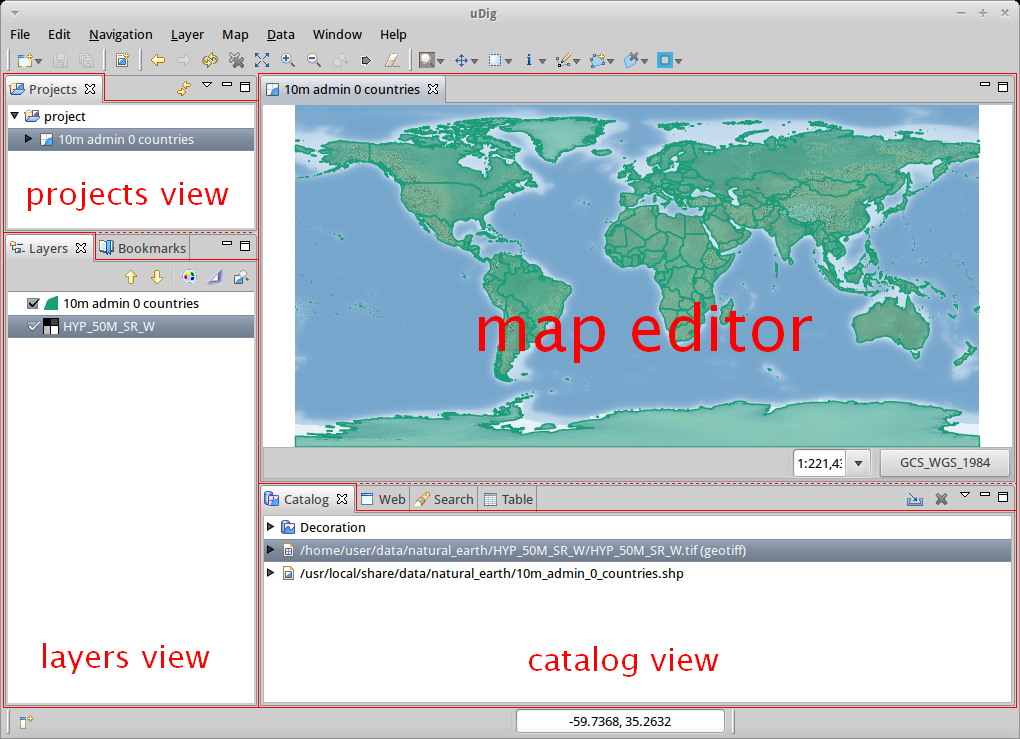
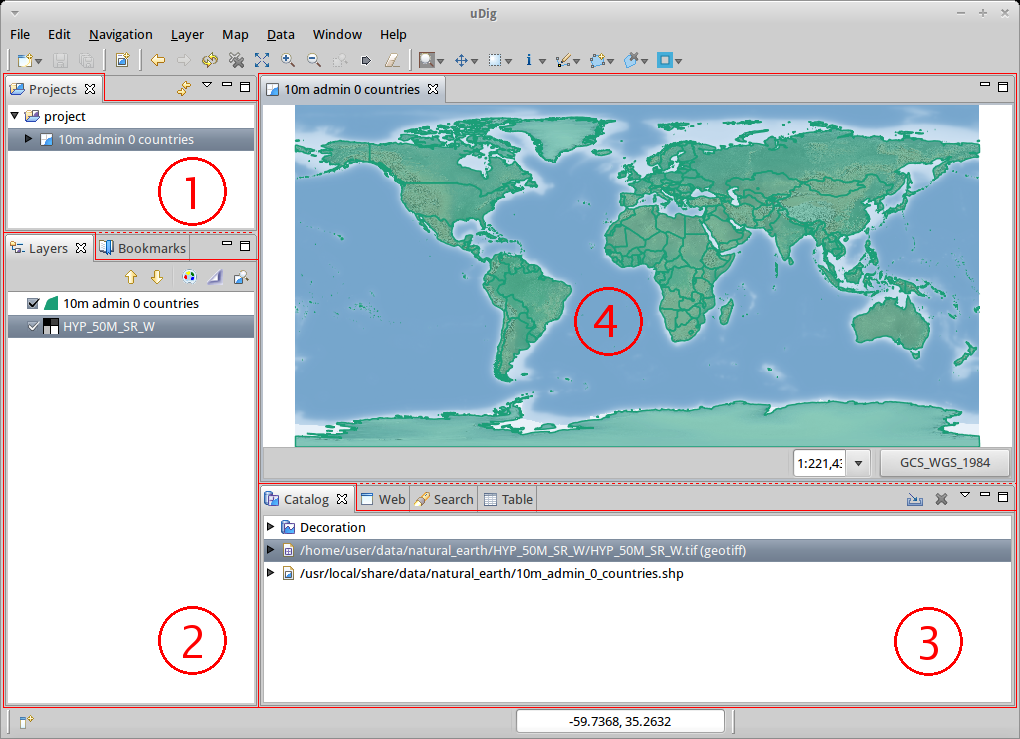
updated udig_workbench.png screenshot to make it more flexible for translations (description of workbench views/editors)

diff --git a/livedvd/gisvm/trunk/doc/de/quickstart/udig_quickstart.rst b/livedvd/gisvm/trunk/doc/de/quickstart/udig_quickstart.rst
@@ -123,8 +123,14 @@ Viele Ansichten zeigen dabei kontextbezogene Informationen zur aktuell geöffnet
   .. image:: ../../images/screenshots/800x600/udig_workbench.png
    :scale: 70 %
 
-Oben ist ein typischer uDig -Arbeitsplatz mit Karten (Editoren) sowie Ansichten für Kartenprojekte und Layer zu sehen. Darüber hinaus 
-gibt es noch die Katalogansicht. Die Ansichten und deren Verwendung werden weiter unten beschrieben.
+Oben ist ein typischer uDig -Arbeitsplatz mit Ansichten für die 
+
+	#. Kartenlayer **Layers** (1), 
+	#. Kartenprojekte **Projects** (2), 
+	#. dem Katalog **Catalog** (3) sowie 
+	#. der Karte (4) 
+
+zu sehen. Die Ansichten und deren Verwendung werden weiter unten beschrieben.
 
 Dateien
 =======
@@ -177,7 +183,8 @@ Um einen ersten Eindruck der Anwendung zu gewinnen, werden wir Beispieldaten lad
    wird z.B. nicht komplett in den Arbeitsspeicher geladen. Wir haben den Grundsatz, die Daten auf dem Filesystem zu 
    belassen und nur auf Anfrage beim Darstellen in der Karte den relevanten Teil anzufragen.
 
-.. tip:: Sie können Shapefiles direkt vom **File Manager** per Drag&Drop in die uDig Anwendung ziehen, um weitere Daten hinzuzufügen!
+.. tip:: 
+   Sie können Shapefiles direkt vom **File Manager** per Drag&Drop in die uDig Anwendung ziehen, um weitere Daten hinzuzufügen!
 
 Karte
 =====
@@ -213,8 +220,9 @@ Interesse ist. Die Werkzeuge sind in der Werkzeugleiste direkt unter dem Applika
      .. |BNAV| image:: ../../images/screenshots/800x600/udig_backward_nav.gif
      .. |FNAV| image:: ../../images/screenshots/800x600/udig_forward_nav.gif
 
-.. tip:: Die meisten Werkzeuge erlauben es Ihnen, bei gedrückter mittlerer Maustaste den Ausschnitt zu verschieben 
-         und unter Verwendung des Mausrades den Maßstab anzupassen.
+.. tip:: 
+   Die meisten Werkzeuge erlauben es Ihnen, bei gedrückter mittlerer Maustaste den Ausschnitt zu verschieben 
+   und unter Verwendung des Mausrades den Maßstab anzupassen.
 
 Web Map Server
 ==============
@@ -223,7 +231,9 @@ Mit uDig haben Sie die Möglichkeit auf Geodaten, die freie im Internet zugängl
 
 .. note:: Sollten Sie keine Verbindung ins Internet herstellen können, starten Sie einfach über :menuselection:`Applications --> Education --> Start GeoServer` einen lokalen WMS Server. Das Skript wird eine Seite öffnen, die einen Links unter "Service Capabilities" auflistet. Ziehen Sie per Drag&Drop einen der **WMS** Links in Ihre Karte.
 
-.. tip:: Sie können eine Verbindung zu Web Map Servern aufbauen, indem Sie über den **Add Data** Wizard (:menuselection:`Layer --> Add...`) gehen oder per Drag&Drop einen WMS Hyperlinks in die Karte ziehen.
+.. tip:: 
+   Sie können eine Verbindung zu Web Map Servern aufbauen, indem Sie über den **Add Data** 
+   Wizard (:menuselection:`Layer --> Add...`) gehen oder per Drag&Drop einen WMS Hyperlinks in die Karte ziehen.
 
 #. Wählen Sie hierfür :menuselection:`File --> New --> New Map` im Applikationsmenü
 
@@ -256,7 +266,8 @@ Mit uDig haben Sie die Möglichkeit auf Geodaten, die freie im Internet zugängl
    
 	.. |INFO| image:: ../../images/screenshots/800x600/udig_info_mode.gif
 
-.. tip:: Sie können zwischen dem Info und dem Zoom Tool hin und her schalten, indem Sie auf der Tastatur `I` und `Z` drücken.
+.. tip:: 
+    Sie können zwischen dem Info und dem Zoom Tool hin und her schalten, indem Sie auf der Tastatur `I` und `Z` drücken.
 
 Stile
 =====

diff --git a/livedvd/gisvm/trunk/doc/en/quickstart/udig_quickstart.rst b/livedvd/gisvm/trunk/doc/en/quickstart/udig_quickstart.rst
@@ -121,8 +121,14 @@ information about the current Map).
   .. image:: ../../images/screenshots/800x600/udig_workbench.png
    :scale: 70 %
 
-Shown above is a typical uDig session with the Map editor, Projects view, Layers view and Catalog
-view labelled . These views will be described further as we demonstrate their use.
+Shown above is a typical uDig session with the 
+
+	#. Layers view (1), 
+	#. Projects view (2), 
+	#. Catalog view (3) and 
+	#. Map editor (4). 
+
+These views will be described further as we demonstrate their use.
 
 Files
 =====
